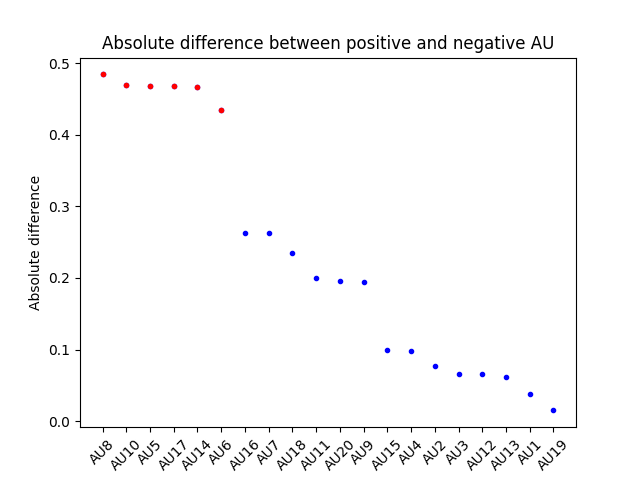
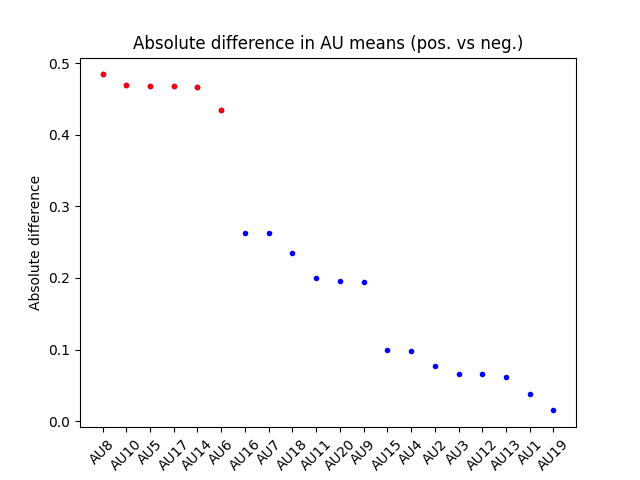
sparar ej pos/neg.csv och kommenterat

Changed region(s): [[0.1562, 0.0625, 0.875, 0.125]]

diff --git a/assignment1/scripts/a1.py b/assignment1/scripts/a1.py
@@ -61,10 +61,13 @@ def main():
 
     # ----------------- Split data into positive and negative -----------------
 
+    # filter out file names without extension
     au_df['file'] = au_df['file'].apply(lambda x: os.path.splitext(x)[0])
+
     positive_data = []
     negative_data = []
     
+    # sort by valence
     for i, au_row in au_df.iterrows():
         if au_row.isnull().values.any():
             continue
@@ -78,10 +81,6 @@ def main():
 
     positive_df = pd.DataFrame(positive_data)
     negative_df = pd.DataFrame(negative_data)
-
-    positive_df.to_csv('processed/positive_data.csv', index=False)
-    negative_df.to_csv('processed/negative_data.csv', index=False)
-
     # -------------------------------------------------------------------------
     
     # ----------------- Calculate mean of each AU for positive and negative data and plot -----------------
@@ -103,24 +102,24 @@ def main():
         
         abs_diff[col] = absolute_difference
 
-    #sort the AUs by the absolute difference
+    # sort the AUs by the absolute mean difference (descending)
     abs_diff = dict(sorted(abs_diff.items(), key=lambda item: item[1], reverse=True))
 
-    # Create a DataFrame with AU names and their absolute mean values
+    # Create a DataFrame with AU names and their absolute mean diff values
     abs_diff_df = pd.DataFrame([abs_diff])
     abs_diff_df.to_csv('processed/abs_diff.csv', index=False)
 
     # Plot all values
     plt.plot(list(abs_diff.keys()), list(abs_diff.values()), 'b.')
 
-    # Highlight the 6 highest values
+    # Color the 6 highest mean diff AUs red
     top_6_aus = list(abs_diff.keys())[:6]
     top_6_values = list(abs_diff.values())[:6]
     plt.plot(top_6_aus, top_6_values, 'r.') 
     plt.xticks(rotation=45)
     plt.xlabel('AU')
     plt.ylabel('Absolute difference')
-    plt.title('Absolute difference between positive and negative AU')
+    plt.title('Absolute difference in AU means (pos. vs neg.)')
     # plt.show()
     plt.savefig('processed/au_visualization.png')
 
